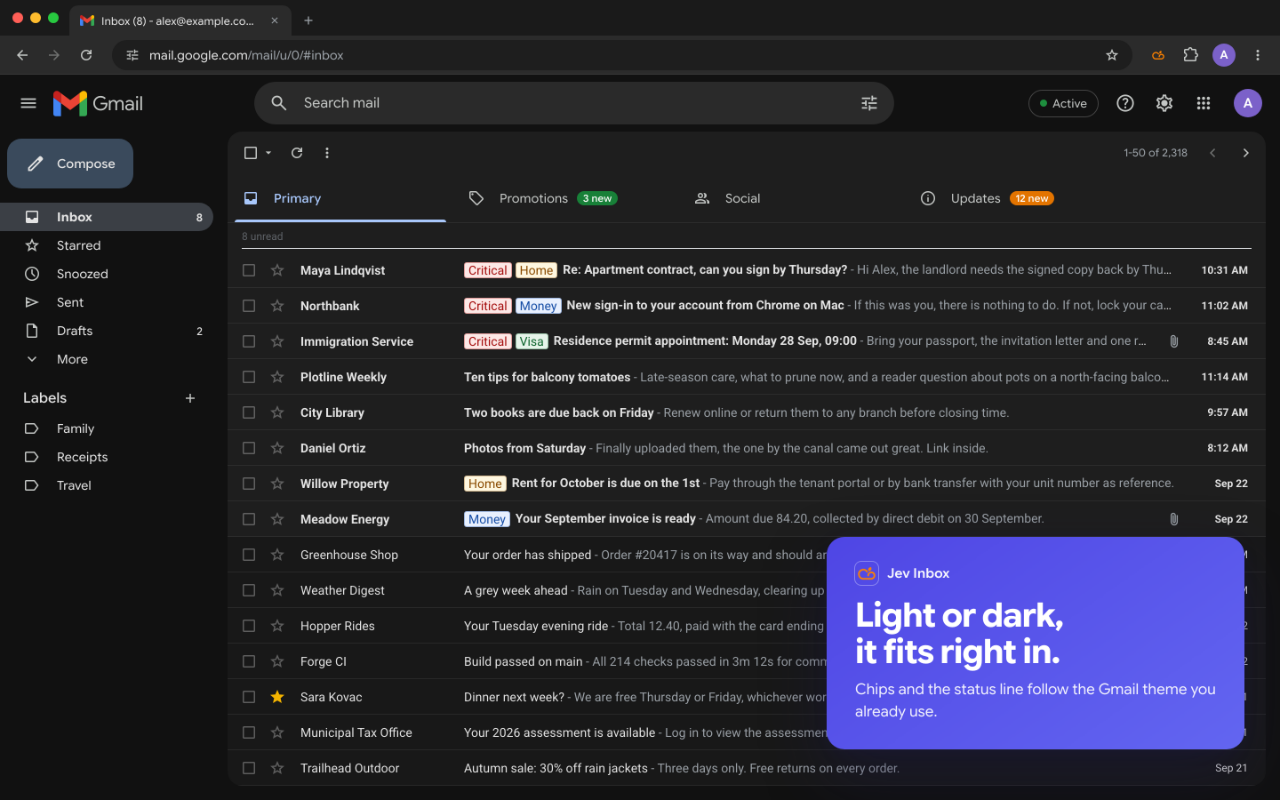
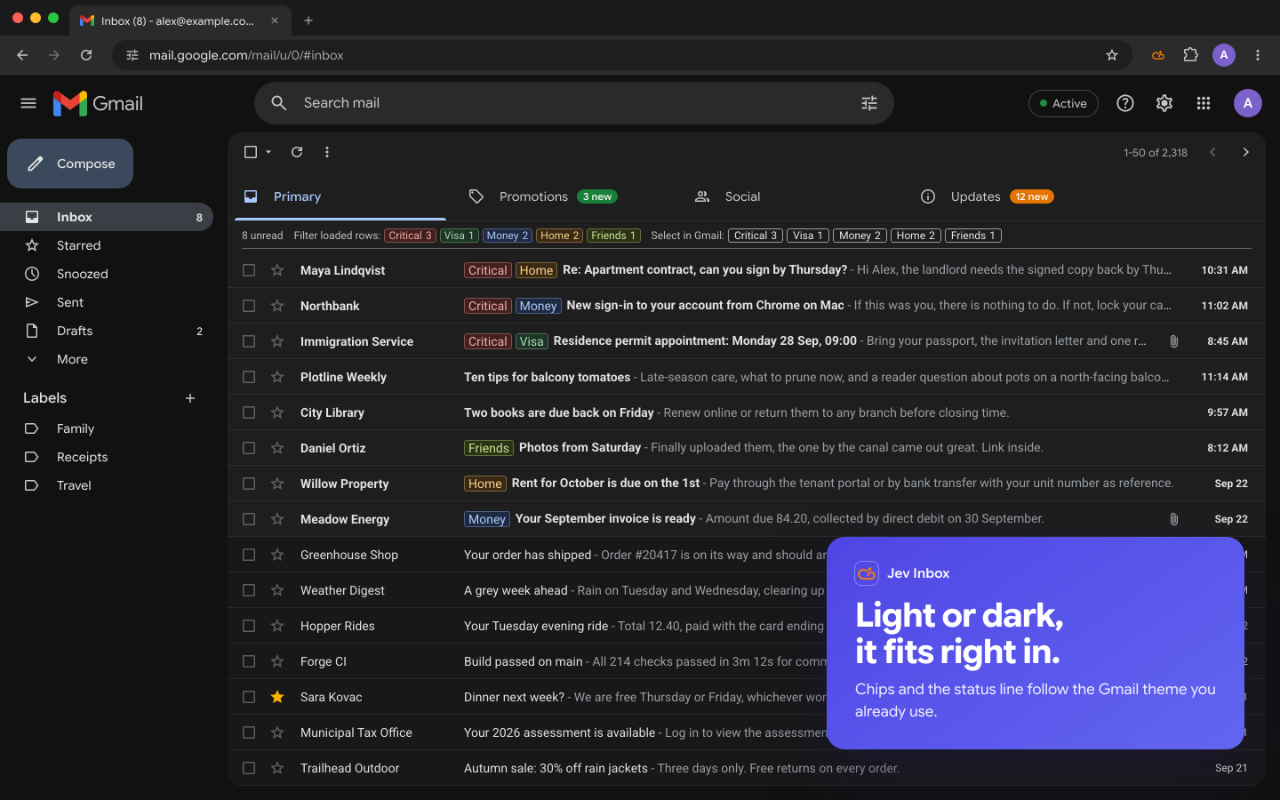
docs(store): regenerate the store images to show the current product
Draw the scene bar with the classes content.ts renders (count, Filter loaded rows, Select in Gmail, Finish setup) and data-gc-theme on the bar and chip slots, add a fourth label so the olive hue shows, and crop the search scene's popup to Connection, Show on and Strictness.

diff --git a/dev/store/scene.html b/dev/store/scene.html
@@ -116,7 +116,7 @@ const scene = P.get('scene') || 'hero';
 const ICON = '../../assets/icon-128.png';
 const RAW = 'raw/';
 
-const L = { Visa: 0, Money: 1, Home: 2 };
+const L = { Visa: 0, Money: 1, Home: 2, Friends: 3 };
 const inbox = [
   { s: 'Plotline Weekly', sub: 'Ten tips for balcony tomatoes', sn: 'Late-season care, what to prune now, and a reader question about pots on a north-facing balcony.', d: '11:14 AM', u: 1 },
   { s: 'Northbank', sub: 'New sign-in to your account from Chrome on Mac', sn: 'If this was you, there is nothing to do. If not, lock your card and reset your password now.', d: '11:02 AM', u: 1, c: 0.9, l: ['Money'] },
@@ -125,7 +125,7 @@ const inbox = [
   { s: 'City Library', sub: 'Two books are due back on Friday', sn: 'Renew online or return them to any branch before closing time.', d: '9:57 AM', u: 1 },
   { s: 'Weather Digest', sub: 'A grey week ahead', sn: 'Rain on Tuesday and Wednesday, clearing up by the weekend.', d: '9:20 AM' },
   { s: 'Immigration Service', sub: 'Residence permit appointment: Monday 28 Sep, 09:00', sn: 'Bring your passport, the invitation letter and one recent photo. Arrive ten minutes early.', d: '8:45 AM', u: 1, c: 0.84, l: ['Visa'], a: 1 },
-  { s: 'Daniel Ortiz', sub: 'Photos from Saturday', sn: 'Finally uploaded them, the one by the canal came out great. Link inside.', d: '8:12 AM', u: 1 },
+  { s: 'Daniel Ortiz', sub: 'Photos from Saturday', sn: 'Finally uploaded them, the one by the canal came out great. Link inside.', d: '8:12 AM', u: 1, l: ['Friends'] },
   { s: 'Willow Property', sub: 'Rent for October is due on the 1st', sn: 'Pay through the tenant portal or by bank transfer with your unit number as reference.', d: 'Sep 22', u: 1, l: ['Home'] },
   { s: 'Meadow Energy', sub: 'Your September invoice is ready', sn: 'Amount due 84.20, collected by direct debit on 30 September.', d: 'Sep 22', u: 1, l: ['Money'], a: 1 },
   { s: 'Hopper Rides', sub: 'Your Tuesday evening ride', sn: 'Total 12.40, paid with the card ending 4417. Rate your driver.', d: 'Sep 22' },
@@ -177,20 +177,40 @@ function rowsHtml(rows, withChips) {
     </div>`).join('');
 }
 
+// The bar as content.ts renders it once the loaded rows are classified: the count, then
+// "Filter loaded rows" and "Select in Gmail" with one control per Critical or label match.
+function barHtml(rows) {
+  const unread = rows.filter((r) => r.u);
+  const options = [{ name: 'Critical', hue: 'gc-filter-critical', n: unread.filter((r) => r.c).length }];
+  for (const [name, hue] of Object.entries(L)) {
+    options.push({ name, hue: `gc-hue-${hue}`, n: unread.filter((r) => (r.l || []).includes(name)).length });
+  }
+  const shown = options.filter((o) => o.n > 0);
+  const filters = shown
+    .map((o) => `<button type="button" class="gc-filter ${o.hue}" aria-pressed="false">${o.name}<span class="gc-filter-count">${o.n}</span></button>`)
+    .join('');
+  const selects = shown
+    .map((o) => `<button type="button" class="gc-select-option">${o.name}<span class="gc-filter-count">${o.n}</span></button>`)
+    .join('');
+  return `<span class="gc-live"><span class="gc-count">${unread.length} unread</span></span>`
+    + `<span class="gc-filters"><span class="gc-filters-label">Filter loaded rows:</span>${filters}</span>`
+    + `<span class="gc-filters gc-select"><span class="gc-filters-label">Select in Gmail:</span>${selects}</span>`;
+}
+
 function gmailLogo() {
   return `<svg width="38" height="29" viewBox="52 42 88 66"><path fill="#4285f4" d="M58 108h14V74L52 59v43c0 3.32 2.69 6 6 6"/><path fill="#34a853" d="M120 108h14c3.32 0 6-2.69 6-6V59l-20 15"/><path fill="#fbbc04" d="M120 48v26l20-15v-8c0-7.42-8.47-11.65-14.4-7.2"/><path fill="#ea4335" d="M72 74V48l24 18 24-18v26L96 92"/><path fill="#c5221f" d="M52 51v8l20 15V48l-5.6-4.2c-5.94-4.45-14.4-.22-14.4 7.2"/></svg>`;
 }
 
 const S = {
-  hero: { rows: inbox, sorted: 1, bar: '<span class="gc-count">8 unread</span>',
+  hero: { rows: inbox, sorted: 1, bar: barHtml(inbox),
     callout: { pos: 'right:40px;bottom:40px', h: 'Unread first.<br>Critical on top.', p: 'Gmail\'s own list, reordered in place. The contract that needs a signature beats the newsletter.' } },
-  labels: { rows: inbox, sorted: 1, bar: '<span class="gc-count">8 unread</span>', popup: { img: 'popup-set.png', y: 244 },
+  labels: { rows: inbox, sorted: 1, bar: barHtml(inbox), popup: { img: 'popup-set.png', y: 244 },
     callout: { pos: 'left:24px;bottom:32px', h: 'Your labels,<br>in plain words.', p: 'Name a label, describe what belongs in it. Jev answers one question per label, per email.' } },
-  dark: { rows: inbox, sorted: 1, dark: 1, bar: '<span class="gc-count">8 unread</span>',
+  dark: { rows: inbox, sorted: 1, dark: 1, bar: barHtml(inbox),
     callout: { pos: 'right:40px;bottom:40px', h: 'Light or dark,<br>it fits right in.', p: 'Chips and the status line follow the Gmail theme you already use.' } },
-  privacy: { rows: inbox, sorted: 0, bar: '<span class="gc-count">8 unread</span><span class="gc-error">Open Jev Inbox to finish setup.</span>', popup: { img: 'popup-firstrun.png', y: 0 },
+  privacy: { rows: inbox, sorted: 0, bar: '<span class="gc-live"><span class="gc-count">8 unread</span><span class="gc-error">Open Jev Inbox to finish setup.</span></span><button type="button" class="gc-setup">Finish setup</button>', popup: { img: 'popup-firstrun.png', y: 0 },
     callout: { pos: 'left:24px;bottom:32px', h: 'Nothing is sent<br>until you say so.', p: 'Only sender, subject, snippet and date of unread rows, and of read mail if you turn it on. The snippet is the first part of the body; the rest and attachments are never sent.' } },
-  search: { rows: search, sorted: 1, search: 1, bar: '<span class="gc-count">4 unread</span>', popup: { img: 'popup-set.png', y: 0 },
+  search: { rows: search, sorted: 1, search: 1, bar: barHtml(search), popup: { img: 'popup-key.png', y: 0 },
     callout: { pos: 'left:24px;bottom:32px', h: 'Your key,<br>your provider.', p: 'Vercel AI Gateway or TypeSafe. Works on the inbox, its tabs and search results.' } },
 };
 const s = S[scene];
@@ -253,6 +273,8 @@ document.getElementById('app').innerHTML = `
 ${s.popup ? `<div class="popup"><img src="${RAW}${s.popup.img}" style="margin-top:-${s.popup.y}px"></div>` : ''}
 ${P.get('nocallout') ? '' : `<div class="callout" style="${s.callout.pos}"><div class="brand"><img src="${ICON}">Jev Inbox</div><h1>${s.callout.h}</h1><p>${s.callout.p}</p></div>`}
 `;
+// content.ts sets data-gc-theme on the bar and on every chip slot from Gmail's own theme.
+for (const el of document.querySelectorAll('.gc-root, .gc-chips')) el.dataset.gcTheme = s.dark ? 'dark' : 'light';
 const callout = document.querySelector('.callout');
 const place = () => {
   if (!callout) return;

diff --git a/AGENTS.md b/AGENTS.md
@@ -46,7 +46,7 @@ File map:
 - `src/section.css`: styles for the status bar, its filter buttons, the Critical badge, the inline label chips with their pressed and focus states, and the `data-gc-hidden` rows, and the `gc-live` region, with explicit light tokens and dark overrides under `[data-gc-theme='dark']`, every text pair at WCAG AA, and red reserved for Critical: no label hue's text, tint or pressed fill sits within 30 degrees of Critical's in either theme (hue 3 is olive). `tests/theme.test.ts` checks both.
 - `assets/icon.svg`: icon source, the Orca logo (318x231). `npm run icons` (`scripts/icons.mjs`) renders it with Playwright's Chromium into `assets/icon-{16,32,48,128}.png`, centred on a transparent square with 1, 2, 4 and 16px padding and never stretched, and writes the `docs/icons-preview.png` sheet of each size at 1x and enlarged on light and dark. The build copies the PNGs into `dist/assets`; the SVG stays out of `dist/`.
 - `dev/demo.html` and `dev/demo.ts`: Gmail-like demo list with made-up mail, a stubbed `chrome` API, and canned classifications. Build first, then open the file. `?theme=dark` for the dark list, which sets a class on `html` and puts the dark background on `div[role=main]` without changing the text color the bar inherits, so the theme never comes from `prefers-color-scheme`; its read rows carry `zA yO`, a `yP` sender and a subject without `bqe`, `?ack=0` for a browser that has not accepted the notice. Every row has a Gmail-like `td.oZ-x3` checkbox (`[role="checkbox"]`, `aria-checked`, `x7` on a ticked row) that toggles on click, or on mouseup after a mousedown with `?checkbox=mouseup`, and counts its toggles in `data-toggles`. `fixtures/` stays gitignored.
-- `dev/store/`: sources for the Chrome Web Store images. `scene.html` is the Gmail-like Chrome window, driven by a `scene` query param (`hero`, `labels`, `dark`, `privacy`, `search`) and `nocallout=1` for the clean hero render, with the list authored inline from the same made-up mail as `dev/demo.html`. `promo.html` is the small and marquee promo tile, driven by `size`. `stub.ts` stubs `chrome.storage`, `chrome.runtime`, and `chrome.tabs` (the active tab is a Gmail inbox) with a state decoded from a `state` query param, the same technique as `dev/demo.ts`, so the real `dist/popup.html` and `popup.js` render the popup scenarios. `scripts/store-images.mjs` injects `stub.js` into a copy of `dist/popup.html`, screenshots the popup states, the five scenes and the clean hero with Playwright's Chromium (`npx playwright install chromium`), so it runs on macOS and Linux with no ImageMagick, and downsizes the 2x renders into `docs/store/` as RGB PNGs without alpha; intermediates land in the gitignored `dev/store/raw/`. Run it with `npm run store-images`.
+- `dev/store/`: sources for the Chrome Web Store images. `scene.html` is the Gmail-like Chrome window, driven by a `scene` query param (`hero`, `labels`, `dark`, `privacy`, `search`) and `nocallout=1` for the clean hero render, with the list authored inline from the same made-up mail as `dev/demo.html`. The bar is drawn with the classes `content.ts` renders (the count in `span.gc-live`, Filter loaded rows, Select in Gmail, Finish setup) and `data-gc-theme` on the bar and every chip slot, so `dist/section.css` styles it as in Gmail. `promo.html` is the small and marquee promo tile, driven by `size`. `stub.ts` stubs `chrome.storage`, `chrome.runtime`, and `chrome.tabs` (the active tab is a Gmail inbox) with a state decoded from a `state` query param, the same technique as `dev/demo.ts`, so the real `dist/popup.html` and `popup.js` render the popup scenarios; a `crop` field in that state keeps only some sections (`key` keeps Connection, Show on and Strictness for the search scene). `scripts/store-images.mjs` injects `stub.js` into a copy of `dist/popup.html`, screenshots the popup states, the five scenes and the clean hero with Playwright's Chromium (`npx playwright install chromium`), so it runs on macOS and Linux with no ImageMagick, and downsizes the 2x renders into `docs/store/` as RGB PNGs without alpha; intermediates land in the gitignored `dev/store/raw/`. Run it with `npm run store-images`.
 - `dev-dist/`: gitignored build output for the dev pages: `demo.js` and `stub.js`, which both report the version from `manifest.json`, and `popup-store.html`, the copy of `dist/popup.html` that `scripts/store-images.mjs` writes with a `<base href="../dist/">` and `stub.js` injected.
 - `CHANGELOG.md`: one entry per version. The release steps are in `README.md` under Release.
 

diff --git a/docs/store-listing.md b/docs/store-listing.md
@@ -57,10 +57,10 @@ No other hosts are requested. The extension makes no request to any server of it
 
 Built by `npm run store-images` from the sources in `dev/store/`. Screenshots are made-up mail only, no real inbox.
 
-- `docs/store/01-unread-first.png` (1280x800): the inbox with unread mail first and the critical rows on top, chips in place.
-- `docs/store/02-your-labels.png` (1280x800): the popup's labels editor over the reordered list.
+- `docs/store/01-unread-first.png` (1280x800): the inbox with unread mail first and the critical rows on top, chips in place, and the bar's Filter loaded rows and Select in Gmail controls.
+- `docs/store/02-your-labels.png` (1280x800): the popup's labels editor, four labels including the olive fourth hue, over the reordered list.
 - `docs/store/03-dark-theme.png` (1280x800): the same list in Gmail's dark theme.
-- `docs/store/04-privacy.png` (1280x800): the first-run notice, before anything is sent.
-- `docs/store/05-search-and-key.png` (1280x800): search results, with the popup's Vercel AI Gateway connection.
+- `docs/store/04-privacy.png` (1280x800): the first-run notice as three bullets, before anything is sent, with Finish setup in the Gmail bar.
+- `docs/store/05-search-and-key.png` (1280x800): search results, with the popup's Vercel AI Gateway connection, Show on and Strictness.
 - `docs/store/promo-small.png` (440x280): the small promo tile.
 - `docs/store/promo-marquee.png` (1400x560): the marquee promo tile.

diff --git a/CHANGELOG.md b/CHANGELOG.md
@@ -13,6 +13,7 @@ Every version of Jev Inbox for Gmail, newest first. The version in `package.json
 - The cache keeps the sender, subject and date of each classified thread, locally only. "Manage" in the popup opens a page that groups the classified threads by label and sender, with filters, and opens a Gmail search for the picked senders, split into numbered searches when long, to delete or archive a whole group in Gmail.
 - The bar's "Select in Gmail" buttons tick Gmail's own checkbox on every loaded row with a label or the Critical badge, so Gmail's toolbar deletes or archives that category; the bar shows the selected count and a Clear selection button. The extension never deletes or moves mail itself.
 - `npm run package` builds a clean `dist/` and writes `release/jev-inbox-<version>.zip`, and fails when `package.json` and `manifest.json` carry different versions. CI builds the zip on every push and pull request.
+- The store images show the current product: the Strictness section, the three-bullet notice with Finish setup in the bar, four labels with the olive fourth hue, the popup status line, and the bar's Filter and Select in Gmail controls.
 - `dist/` holds only the extension. The demo and the store stub build to `dev-dist/` and read their version from `manifest.json`.
 
 ## 0.1.0
